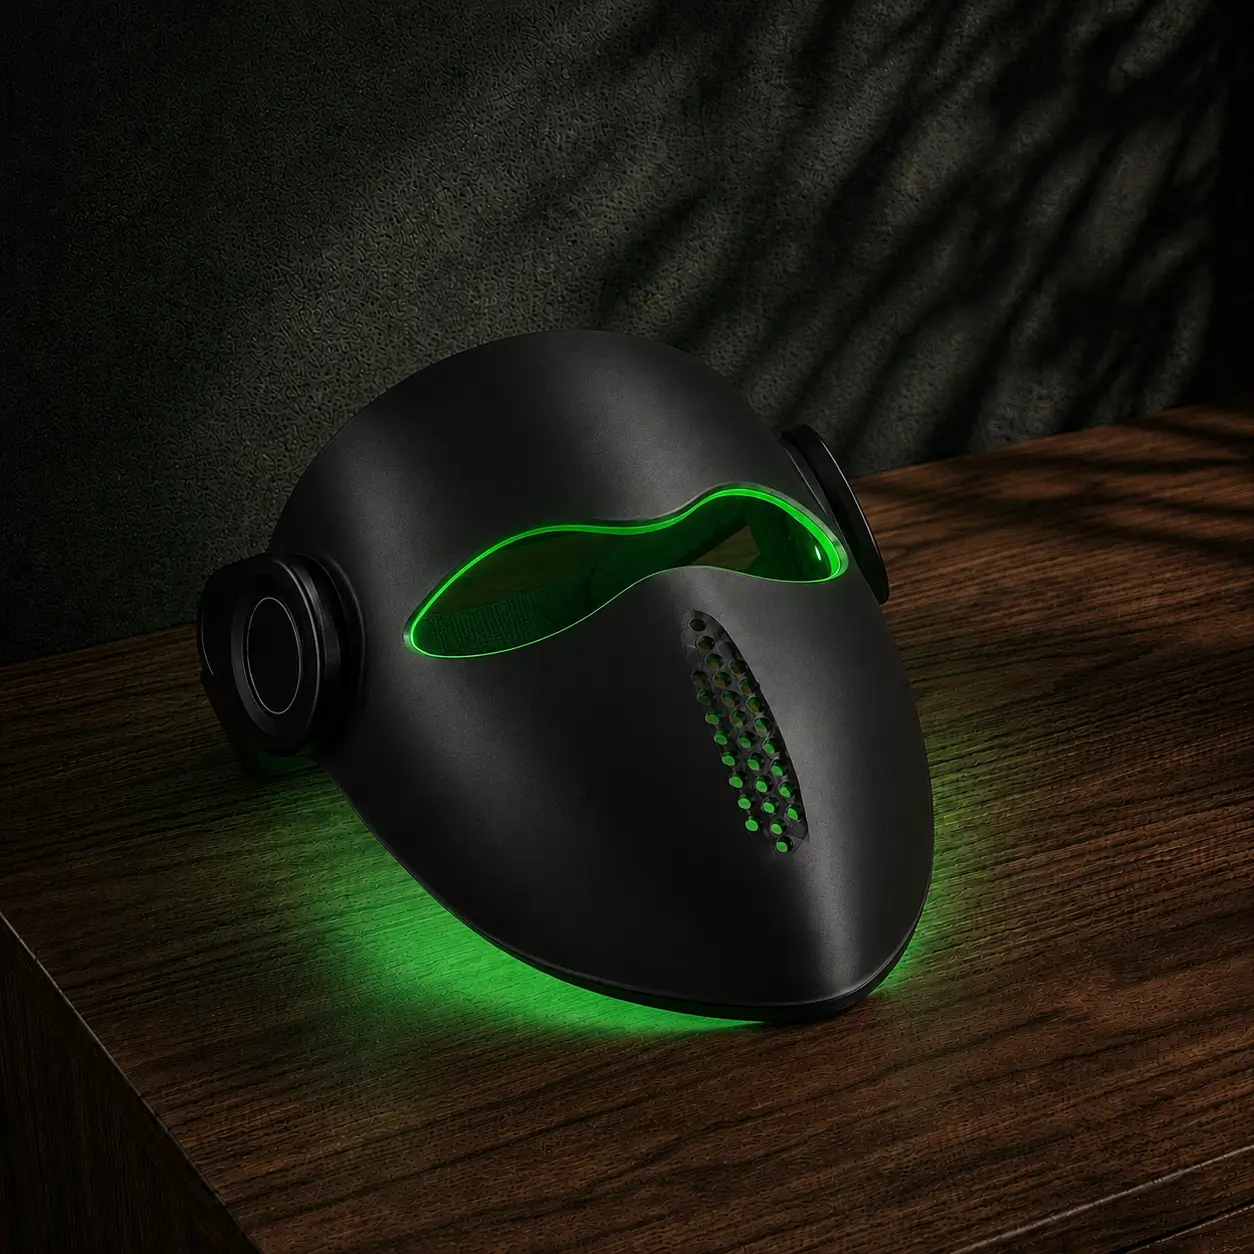
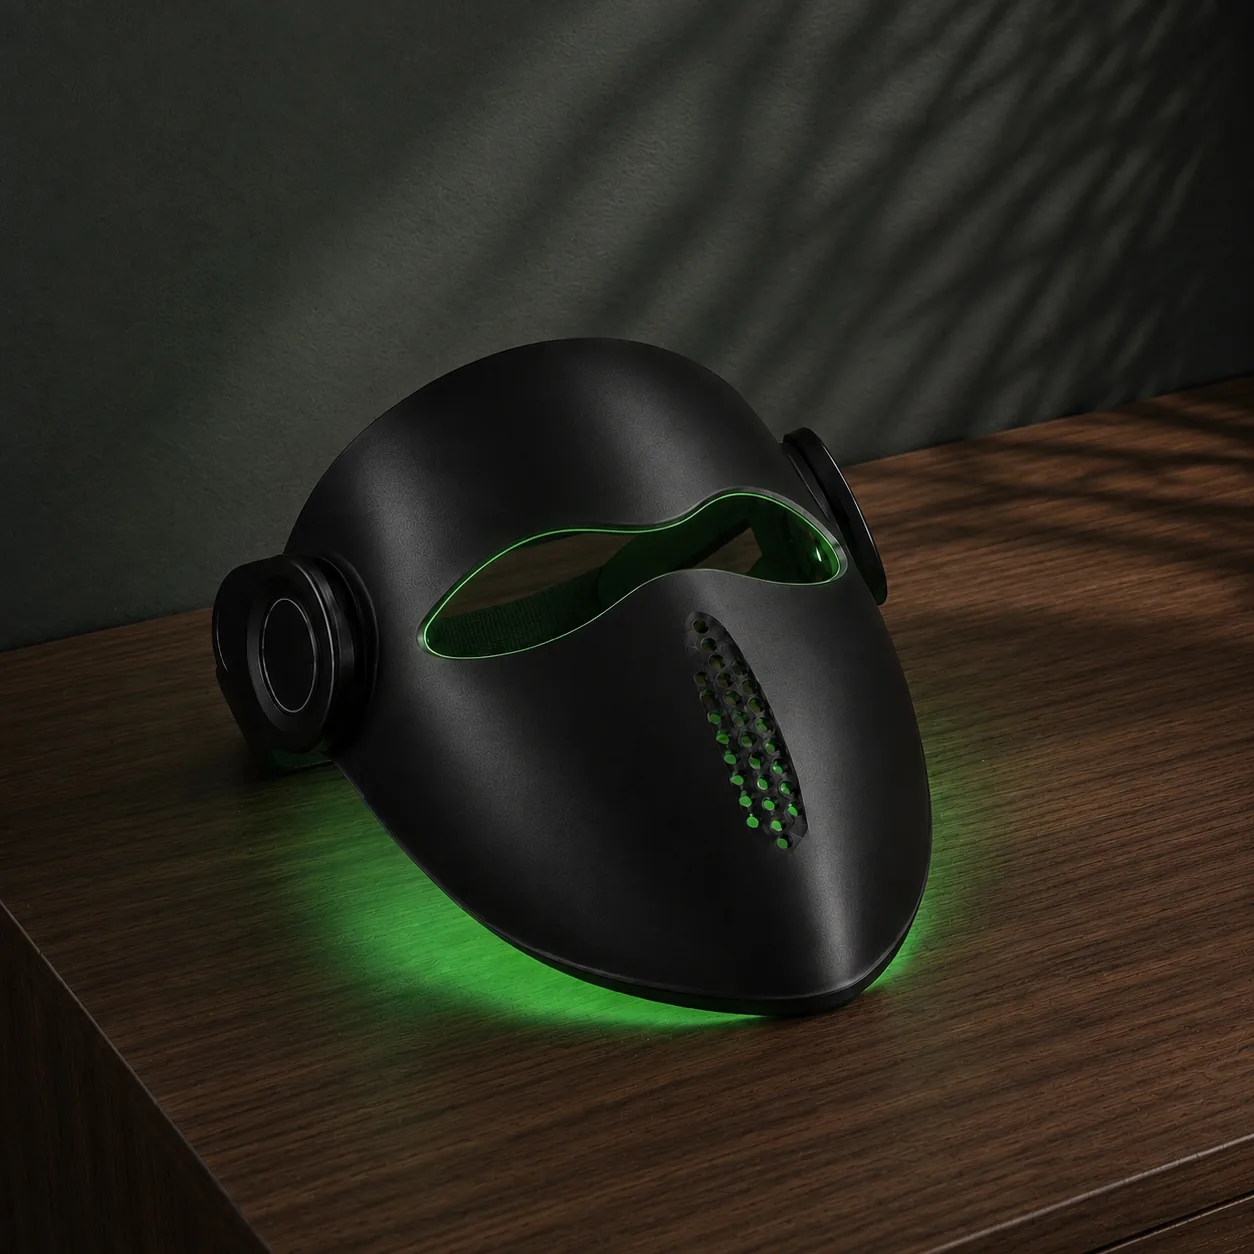
Swap the Mask hero to mask6; drop the worn shot
mask6.png replaces the 5.0 render. Same composition and angle, but the wall
stucco and wood grain are cleaner, which matters twice: it looks better, and it
encodes far better. The 5.0 render's noise forced a drop to q70 to keep the file
reasonable and it still landed at 125KB. mask6 at q82 is 92KB — higher quality
and 25% smaller. Filename is unchanged, so the homepage product card, the PDP
hero and the first gallery thumb all pick it up with no markup change.

The worn shot is removed at the owner's request and the file is deleted rather
than left orphaned in the tree; it is recoverable from git history. It showed the
red unit, so it was always a placeholder pending the green custom build. Gallery
is now hero, held, package. What is still wanted is a worn shot of our own mould
in green, and the markup comment and README both say so.

Verified at 1600 and 375: three thumbs, every swap loads, aria-current tracks,
the package diagram still reports uncropped while the photographs stay
cover-cropped, mask-worn.webp now 404s, left rail unchanged at 232.3px, no
horizontal scroll.

diff --git a/products/mask.html b/products/mask.html
@@ -86,27 +86,24 @@
         <img id="pdpMain" src="../assets/mask/mask.webp" alt="Calmlyte Mask resting on a wood table with a soft green glow beneath it" loading="eager" decoding="async">
       </figure>
       <!-- PHOTOGRAPHY NOTES
-           All four images are our mould: single pinched eye aperture, round temple
-           puck, perforated cheek band. mask-package.webp corroborates it — its
+           All three images are our mould: single pinched eye aperture, temple
+           pucks, perforated cheek band. mask-package.webp corroborates it — its
            640 x 220 mm callouts match the spec table's 25.2 x 8.7 in exactly.
-           Placeholders to replace before launch:
-           - mask-worn.webp shows the RED unit. Re-shoot once the green custom
-             build exists.
-           - mask-held.webp is a marketplace-style composite on a coral background,
-             off the forest palette. COUNSEL: it renders the light as beams
-             travelling into a face, which is the one thing the copy rule forbids
-             showing. Added at the owner's explicit direction; Emma must sign off
-             or it comes out. Removing it is one button block.
+           mask-held.webp is a marketplace-style composite on a coral background,
+           off the forest palette. COUNSEL: it renders the light as beams
+           travelling into a face, which is the one thing the copy rule forbids
+           showing. It is here at the owner's explicit direction; Emma must sign
+           off or it comes out. Removing it is one button block.
            mask-package.webp carries its contents as baked-in image text, so the
-           "In the box" spec row still needs that list as real text. -->
+           "In the box" spec row still needs that list as real text, and it is the
+           one image that must not be cropped — hence data-fit="square".
+           Still wanted: a worn shot of our own mould in green. The previous one
+           (assets/mask/mask-worn.webp, deleted 2026-08-20, recoverable from git)
+           showed the red unit. -->
       <div class="pdp-thumbs" role="group" aria-label="Calmlyte Mask images">
         <button type="button" class="pdp-thumb" aria-current="true"
                 data-full="../assets/mask/mask.webp" data-alt="Calmlyte Mask resting on a wood table with a soft green glow beneath it">
           <img src="../assets/mask/mask.webp" alt="" aria-hidden="true" loading="lazy" decoding="async">
-        </button>
-        <button type="button" class="pdp-thumb" aria-current="false"
-                data-full="../assets/mask/mask-worn.webp" data-alt="Calmlyte Mask worn while resting on a sofa in a softly lit room">
-          <img src="../assets/mask/mask-worn.webp" alt="" aria-hidden="true" loading="lazy" decoding="async">
         </button>
         <button type="button" class="pdp-thumb" aria-current="false"
                 data-full="../assets/mask/mask-held.webp" data-alt="Calmlyte Mask held up beside a face with its green light on">

diff --git a/README.md b/README.md
@@ -51,24 +51,28 @@ existing `[FACTS]` flags. Haven's character line had its "gentle amber tone" cla
 removed because Haven now ships only on the Handheld, whose amber channel is
 unconfirmed — see the comment in the `MODES` block.
 
-## Supplier photography (2026-08-20)
-All four Mask images are the same mould — single pinched eye aperture, round
-temple puck, perforated cheek band. `mask-package.webp` corroborates it: its
-640 x 220 mm callouts match the spec table's 25.2 x 8.7 in exactly. All four are
-in the gallery.
+## Mask photography (2026-08-20)
+Three images, all the same mould — single pinched eye aperture, temple pucks,
+perforated cheek band. `mask-package.webp` corroborates it: its 640 x 220 mm
+callouts match the spec table's 25.2 x 8.7 in exactly.
 
-Placeholders to replace before launch:
-- **mask-worn.webp** shows the **red** unit. Re-shoot once the green custom build
-  exists.
-- **mask-held.webp** is a marketplace-style composite on a coral background, off
-  the forest palette. **Counsel:** it renders the light as beams travelling into a
+- **mask.webp** — hero. Rendered from `mask6.png`, which supersedes the 2.0 and
+  5.0 renders. Kept at this filename so the homepage product card, the PDP hero
+  and the first gallery thumb all track it with no markup change.
+- **mask-held.webp** — marketplace-style composite on a coral background, off the
+  forest palette. **Counsel:** it renders the light as beams travelling into a
   face, which is exactly what the copy rule forbids showing. It is in the gallery
   at the owner's explicit direction — Emma signs off or it comes out. Removing it
   is one button block in `products/mask.html`.
-- The package graphic carries its contents as baked-in image text, so the
+- **mask-package.webp** — carries its contents as baked-in image text, so the
   "In the box" spec row still needs that list as real text. It is also the one
   image that must not be cropped, which is what `data-fit="square"` on its thumb
   and `.pdp-figure.fit-square` in site.css are for.
+- **Still wanted:** a worn shot of our own mould in green. `mask-worn.webp` was
+  removed 2026-08-20 because it showed the red unit; recoverable from git history.
+
+Unused source renders sit untracked in `assets/mask/`: `mask 2.0.png`,
+`mask3.0.png`, `mask4.0.png`, `mask5.0.png`, `1b093d0d-….png`.
 
 ## Handheld photography — blocking (2026-08-20)
 Two supplier photos sit untracked in `assets/handheld/` and were **not** added:
